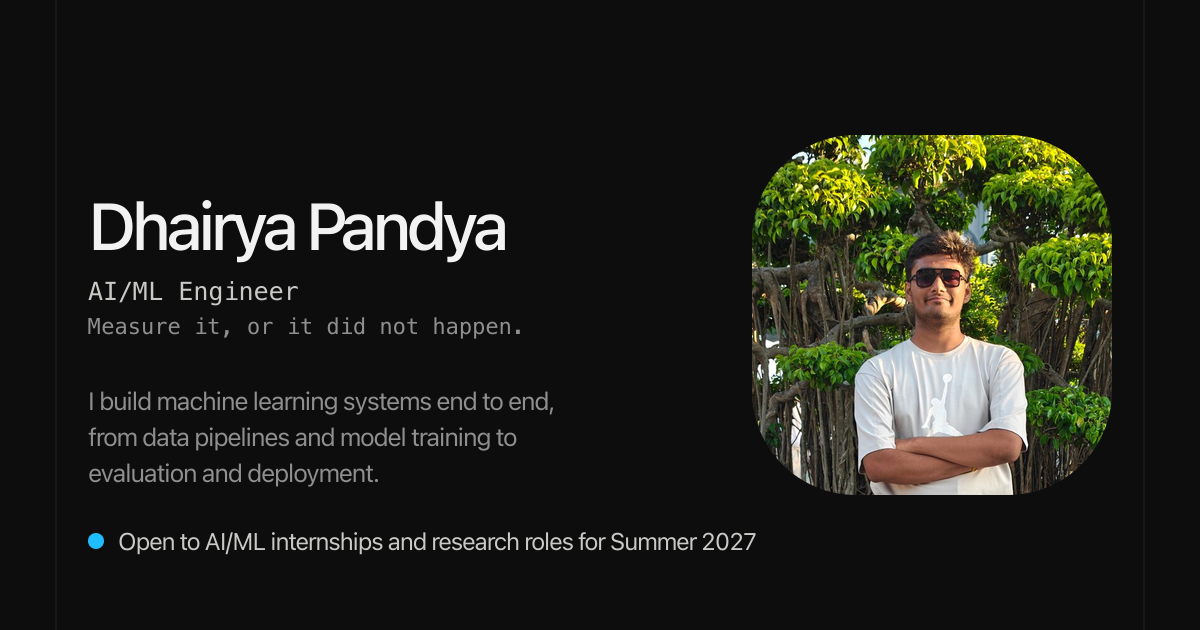
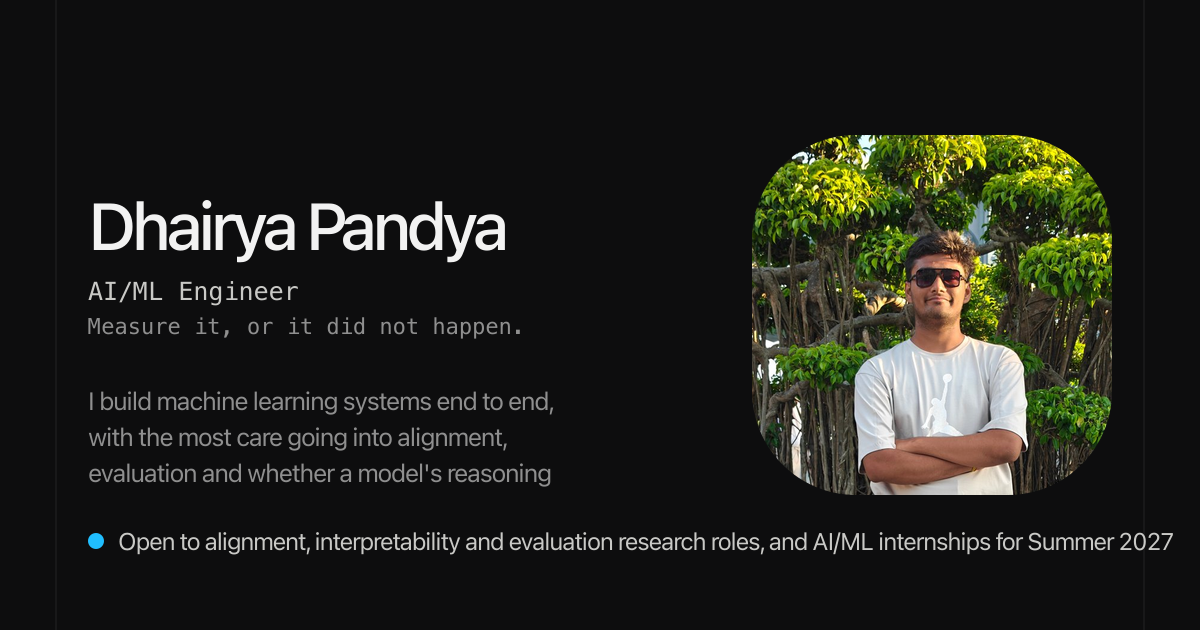
fix: machine view and resume use the GitHub Pages address; alignment-first bio and availability

Changed region(s): [[0.0617, 0.6635, 0.4625, 0.7841], [0.1542, 0.8444, 0.9867, 0.8746]]

diff --git a/src/config/site.ts b/src/config/site.ts
@@ -21,16 +21,16 @@ export const site = {
   role: "AI/ML Engineer",
   /** Completes the sentence "I build ..." */
   builds:
-    "machine learning systems end to end, from data pipelines and model training to evaluation and deployment",
+    "machine learning systems end to end, with the most care going into alignment, evaluation and whether a model's reasoning matches what it does",
   tagline: "Measure it, or it did not happen.",
-  availability: "Open to AI/ML internships and research roles for Summer 2027",
+  availability: "Open to alignment, interpretability and evaluation research roles, and AI/ML internships for Summer 2027",
   status: "available",
   location: "India",
   timezone: "Asia/Kolkata",
   pronouns: "he/him",
   email: "dhairyapandya.workspace@gmail.com",
   phone: "+91 91739 31925",
-  url: "https://dhairyapandya.holdout.workers.dev",
+  url: "https://dhairya-pandya.github.io",
   /** Rendered in the header's left slot, mono uppercase. */
   est: "EST. 2006",
 } as const;
@@ -136,7 +136,7 @@ export const notes = [
  * whose whole argument is "I show my work".
  */
 export const colophon = {
-  domain: "dhairyapandya.holdout.workers.dev",
+  domain: "dhairya-pandya.github.io",
   blurb: "A portfolio that shows the measurement, not just the result.",
   cells: [
     { key: "Crafted by", value: "@dhairya-pandya", href: "https://github.com/dhairya-pandya" },
